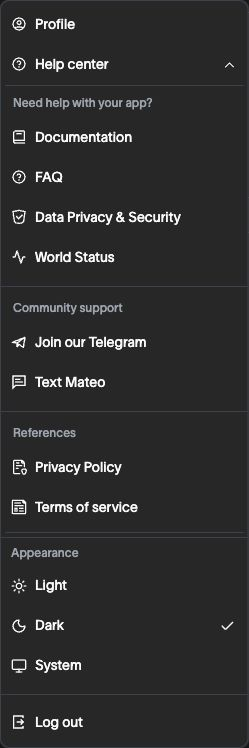
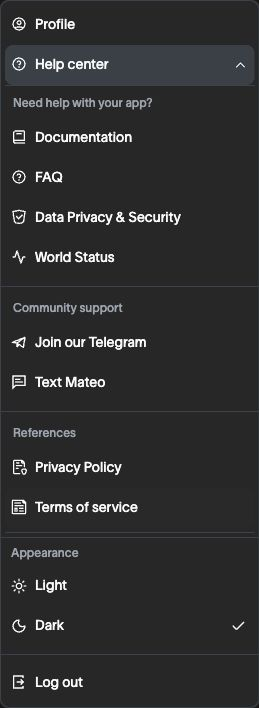
fix(theme): offer only light and dark appearance options

diff --git a/web/tests/unit/portal-theme-provider.test.tsx b/web/tests/unit/portal-theme-provider.test.tsx
@@ -1,6 +1,18 @@
 /** @jest-environment jsdom */
 import "@testing-library/jest-dom";
-import { act, render, screen, waitFor } from "@testing-library/react";
+import {
+  act,
+  fireEvent,
+  render,
+  screen,
+  waitFor,
+} from "@testing-library/react";
+import { ThemeMenu } from "@/components/ThemeMenu";
+import {
+  DropdownMenu,
+  DropdownMenuContent,
+  DropdownMenuTrigger,
+} from "@/components/ui/dropdown-menu";
 import {
   PortalThemeProvider,
   usePortalThemeEnabled,
@@ -13,6 +25,10 @@ jest.mock("next/navigation", () => ({ usePathname: () => mockPathname }));
 jest.mock("react-toastify", () => ({
   ToastContainer: () => null,
   Slide: () => null,
+}));
+// Styling is outside this test; avoid the utility barrel's unrelated IDKit SDK.
+jest.mock("@/lib/utils", () => ({
+  cn: (...inputs: unknown[]) => inputs.filter(Boolean).join(" "),
 }));
 // #endregion
 
@@ -40,6 +56,41 @@ function Availability() {
 
 // #region Real next-themes provider behavior
 describe("portal appearance storage events", () => {
+  it("offers only Light/Dark, reflects saved System appearance, and persists explicit choices", async () => {
+    localStorage.setItem(THEME_STORAGE_KEY, "system");
+    render(
+      <PortalThemeProvider enabled>
+        <DropdownMenu open>
+          <DropdownMenuTrigger>Account menu</DropdownMenuTrigger>
+          <DropdownMenuContent>
+            <ThemeMenu />
+          </DropdownMenuContent>
+        </DropdownMenu>
+      </PortalThemeProvider>,
+    );
+    expect(
+      screen.getAllByRole("menuitemradio").map((item) => item.textContent),
+    ).toEqual(["Light", "Dark"]);
+    expect(screen.queryByText("System")).not.toBeInTheDocument();
+    await waitFor(() =>
+      expect(
+        screen.getByRole("menuitemradio", { name: "Dark" }),
+      ).toHaveAttribute("aria-checked", "true"),
+    );
+    expect(localStorage.getItem(THEME_STORAGE_KEY)).toBe("system");
+    for (const preference of ["light", "dark"]) {
+      const option = screen.getByRole("menuitemradio", {
+        name: new RegExp(preference, "i"),
+      });
+      fireEvent.click(option);
+      await waitFor(() =>
+        expect(document.documentElement).toHaveClass(preference),
+      );
+      expect(option).toHaveAttribute("aria-checked", "true");
+      expect(localStorage.getItem(THEME_STORAGE_KEY)).toBe(preference);
+    }
+  });
+
   it.each([true, false])(
     "preserves preference while navigating supported/unsupported routes (flag=%s)",
     async (enabled) => {

diff --git a/web/components/ThemeMenu/index.tsx b/web/components/ThemeMenu/index.tsx
@@ -7,9 +7,8 @@ import {
   DropdownMenuRadioItem,
   DropdownMenuSeparator,
 } from "@/components/ui/dropdown-menu";
-import { isThemePreference } from "@/lib/theme";
 import { portalMenuItemClassName } from "@/lib/portal-menu-styles";
-import { Monitor, Moon, Sun } from "lucide-react";
+import { Moon, Sun } from "lucide-react";
 import { useTheme } from "next-themes";
 import { useSyncExternalStore } from "react";
 
@@ -19,7 +18,7 @@ const serverSnapshot = () => false;
 
 export function ThemeMenu() {
   const enabled = usePortalThemeEnabled();
-  const { theme, setTheme } = useTheme();
+  const { resolvedTheme, setTheme } = useTheme();
   const mounted = useSyncExternalStore(
     subscribe,
     clientSnapshot,
@@ -34,9 +33,9 @@ export function ThemeMenu() {
       </DropdownMenuLabel>
       <DropdownMenuRadioGroup
         aria-label="Appearance"
-        value={mounted && isThemePreference(theme) ? theme : ""}
+        value={mounted ? resolvedTheme : ""}
         onValueChange={(value) => {
-          if (isThemePreference(value)) setTheme(value);
+          if (value === "light" || value === "dark") setTheme(value);
         }}
       >
         <DropdownMenuRadioItem
@@ -49,13 +48,6 @@ export function ThemeMenu() {
         <DropdownMenuRadioItem className={portalMenuItemClassName} value="dark">
           <Moon className="size-4" />
           Dark
-        </DropdownMenuRadioItem>
-        <DropdownMenuRadioItem
-          className={portalMenuItemClassName}
-          value="system"
-        >
-          <Monitor className="size-4" />
-          System
         </DropdownMenuRadioItem>
       </DropdownMenuRadioGroup>
     </>

diff --git a/web/docs/dark-mode/qa-report.md b/web/docs/dark-mode/qa-report.md
@@ -4,16 +4,16 @@
 
 `PORTAL_DARK_MODE_ENABLED=true` enables appearance controls; explicit `false` forces light, including in development. Unset enables local development only. Supported portal routes share availability rules between server initialization and client navigation. Unsupported routes remain light, and disabling the flag retains the user's saved preference.
 
-`next-themes` owns Light/Dark/System, persistence and system changes. Nonce-aware initialization and strict preference validation handle malformed storage. Keep the provider mounted for reliable forced-light rollback.
+Appearance offers Light/Dark only. `next-themes` retains existing System preferences and the system default internally; the menu checks the resolved light/dark appearance until an explicit choice is saved. Nonce-aware initialization and strict preference validation handle malformed storage. Keep the provider mounted for reliable forced-light rollback.
 
 `styles/portal-theme.css` defines semantic colors without redefining source primitives. Light values are preserved; dark monochrome icons inherit text color while brand artwork stays fixed. Canvas charts resolve CSS colors on theme changes. Palette source: [UI Kit 4.0 primitives](https://www.figma.com/design/rQyitWCsRVKHsR26qsZHdX/UI-Kit-4.0?node-id=4-3). Dark surfaces `#1f1f1f`, `#272727`, `#2f2f2f` are deliberately derived neutrals, not claimed Figma tokens.
 
 ## QA baseline — 2026-09-13
 
-- Agent-run after reduction: 146 unit/schema/script suites, 904 tests passed; typecheck, lint and formatting passed.
+- Agent-run after the Light/Dark-only menu change: 146 unit/schema/script suites, 905 tests passed; typecheck, lint and formatting passed.
 - Chrome desktop (1440/1728px) and mobile (390 × 844): shell/apps, profile/settings, menus, dialogs, verification steps, controls, and synthetic charts/tooltips. No real saves, destructive confirmations, invitations, registrations or key generation.
 - Menu spacing/highlights, mobile Help expansion and verification field clipping were corrected. Tests cover token contrast, icon exceptions, storage/prototype-key handling, cross-tab events and forced-light rollback.
-- Screenshots below are historical QA evidence: synthetic chart data and a mobile menu-only crop. Full account/profile captures are excluded from the public PR.
+- The chart screenshot is historical synthetic-data evidence; the mobile menu-only crop was refreshed after removing System. Both Light/Dark selections were rechecked in Chrome, and the two-option mobile menu was visually verified. Full account/profile captures are excluded from the public PR.
 - Reduction removed preview infrastructure, audit artifacts, 43 unused aliases and duplicate variable indirection (theme CSS: 499 → 300 lines). All 631 retained source variable/mode values matched the original implementation; canvas lookups use the canonical variables and have a regression test.
 - Post-reduction Chrome checks covered desktop/mobile menus, icons, dialog cancellation, field focus, Light/Dark/System selection, reload and route navigation. A real flag-off restart forced light and hid appearance controls with a saved dark preference; restoring the flag restored dark. Port 3000 was untouched.
 
